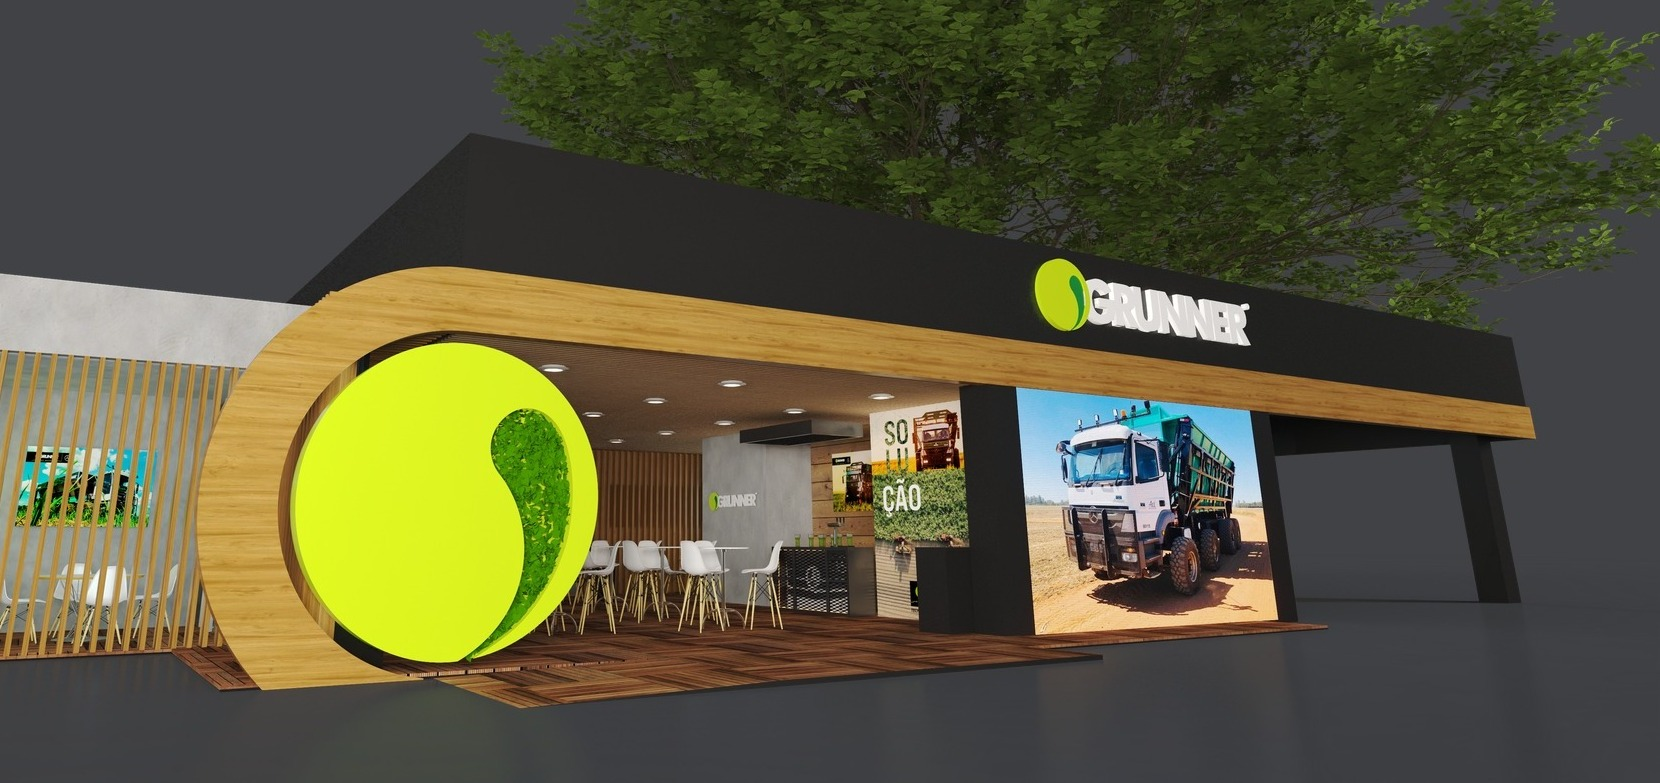
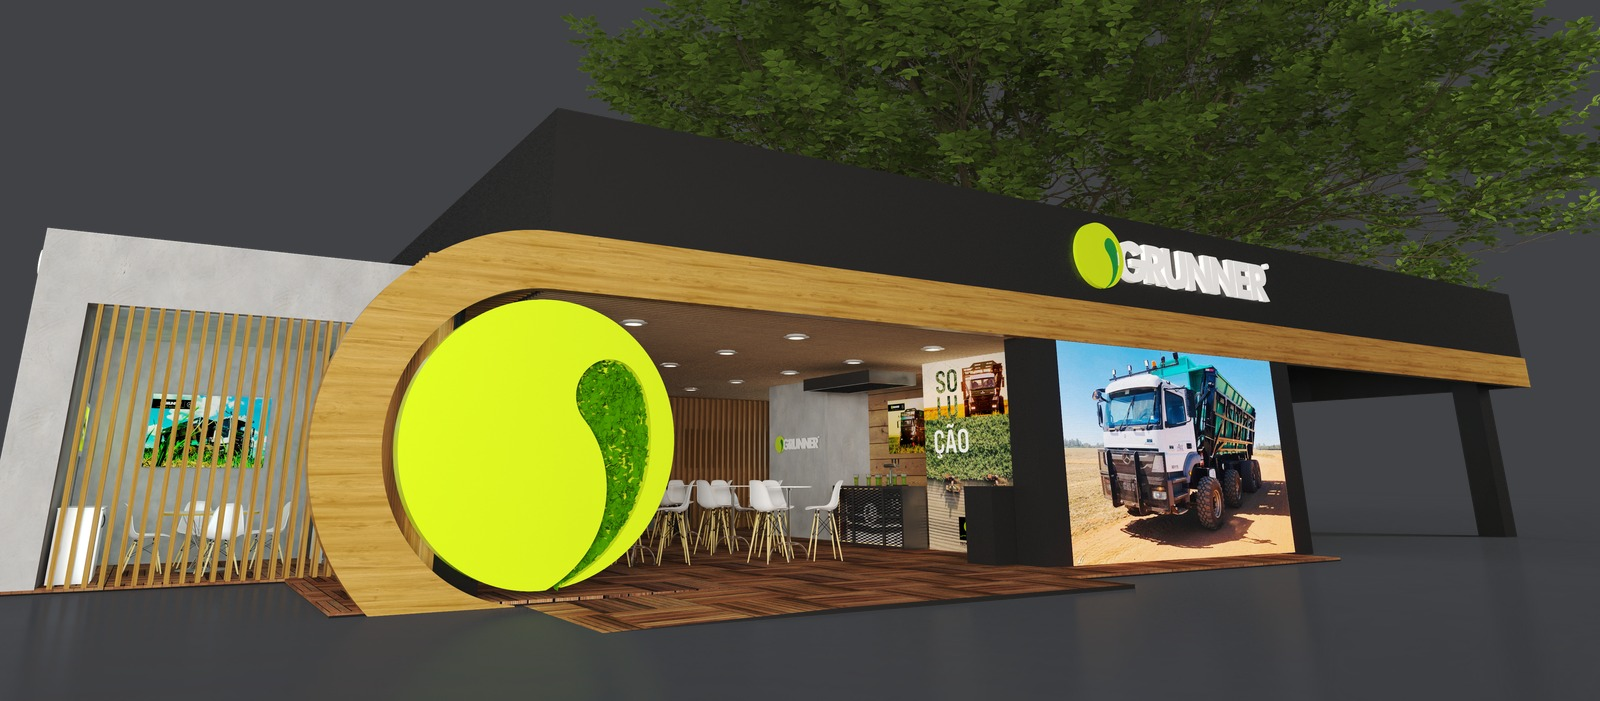
Render × real alinhado por perspectiva; promessa com render do caminhão sem fundo
Claude-Session: https://claude.ai/code/session_01CZkXmZGfokra5xxzUEBShR

diff --git a/index.html b/index.html
@@ -191,20 +191,20 @@ body.idle .chrome{opacity:0;pointer-events:none}
 <h2 style="position:absolute;left:92px;top:100px;width:700px;font-family:'Tusker', 'Arial Narrow', sans-serif;font-size:160px;line-height:1.0;color:#EEE9E1;font-weight:400;text-transform:uppercase">Do render</h2>
 <p style="position:absolute;left:580px;top:106px;width:700px;font-family:'Instrument Serif', Georgia, serif;font-size:150px;line-height:1.0;color:#9ED0F0;font-weight:400;letter-spacing:-2px;font-style:italic;letter-spacing:-4px">ao real.</p>
 <p style="position:absolute;left:1060px;top:236px;width:700px;font-family:'PPR Text', Arial, sans-serif;font-size:24px;line-height:1.4;color:#B4C3D3;letter-spacing:5px;text-transform:uppercase;text-align:right">Grunner · Agrishow 2024</p>
-<img id="rr-render" src="m/g24-render.jpg" alt="Render 3D do estande Grunner na Agrishow" style="position:absolute;left:160px;top:300px;width:1600px;height:755px;object-fit:cover">
-<img id="rr-real" src="m/g24-real.jpg" alt="Estande Grunner montado na Agrishow" style="position:absolute;left:160px;top:300px;width:1600px;height:755px;object-fit:cover;clip-path:inset(0 0 0 50%)">
-<div id="rr-line" style="position:absolute;left:959px;top:300px;width:2px;height:755px;background:#EEE9E1"></div>
-<p style="position:absolute;left:184px;top:324px;width:150px;font-family:'PPR Text', Arial, sans-serif;font-size:24px;line-height:1.4;color:#EEE9E1;letter-spacing:5px;background:#07111F;padding:8px 14px;width:auto">RENDER</p>
-<p style="position:absolute;left:1620px;top:324px;width:116px;font-family:'PPR Text', Arial, sans-serif;font-size:24px;line-height:1.4;color:#0B1C2D;letter-spacing:5px;background:#EEE9E1;padding:8px 14px;width:auto">REAL</p>
+<img id="rr-render" src="m/g24-render.jpg" alt="Render 3D do estande Grunner na Agrishow" style="position:absolute;left:160px;top:320px;width:1600px;height:701px;object-fit:cover">
+<img id="rr-real" src="m/g24-real.jpg" alt="Estande Grunner montado na Agrishow" style="position:absolute;left:160px;top:320px;width:1600px;height:701px;object-fit:cover;clip-path:inset(0 0 0 50%)">
+<div id="rr-line" style="position:absolute;left:959px;top:320px;width:2px;height:701px;background:#EEE9E1"></div>
+<p style="position:absolute;left:184px;top:344px;width:150px;font-family:'PPR Text', Arial, sans-serif;font-size:24px;line-height:1.4;color:#EEE9E1;letter-spacing:5px;background:#07111F;padding:8px 14px;width:auto">RENDER</p>
+<p style="position:absolute;left:1620px;top:344px;width:116px;font-family:'PPR Text', Arial, sans-serif;font-size:24px;line-height:1.4;color:#0B1C2D;letter-spacing:5px;background:#EEE9E1;padding:8px 14px;width:auto">REAL</p>
 <aside>O mesmo estande, no mesmo enquadramento: à esquerda o render aprovado, à direita o estande montado na Agrishow. No HTML, arraste o traço para comparar.</aside>
-<div id="rr-hit" style="position:absolute;left:160px;top:300px;width:1600px;height:755px;cursor:ew-resize;z-index:6;touch-action:none"><div id="rr-knob" style="position:absolute;left:50%;top:50%;width:72px;height:72px;margin:-36px 0 0 -36px;border-radius:50%;background:#EEE9E1;color:#07111F;display:grid;place-items:center;font:28px/1 sans-serif">‹ ›</div></div>
+<div id="rr-hit" style="position:absolute;left:160px;top:320px;width:1600px;height:701px;cursor:ew-resize;z-index:6;touch-action:none"><div id="rr-knob" style="position:absolute;left:50%;top:50%;width:72px;height:72px;margin:-36px 0 0 -36px;border-radius:50%;background:#EEE9E1;color:#07111F;display:grid;place-items:center;font:28px/1 sans-serif">‹ ›</div></div>
 <script>(function(){var h=document.getElementById("rr-hit"),r=document.getElementById("rr-real"),l=document.getElementById("rr-line"),k=document.getElementById("rr-knob");if(!h)return;function set(p){p=Math.max(0,Math.min(1,p));r.style.clipPath="inset(0 0 0 "+(p*100)+"%)";l.style.left=(160+1600*p-1)+"px";k.style.left=(p*100)+"%";}var d=false;function mv(e){var b=h.getBoundingClientRect();set((e.clientX-b.left)/b.width);}h.addEventListener("pointerdown",function(e){d=true;h.setPointerCapture(e.pointerId);mv(e);e.stopPropagation();});h.addEventListener("pointermove",function(e){if(d)mv(e);});h.addEventListener("pointerup",function(){d=false;});h.addEventListener("click",function(e){e.stopPropagation();});})();</script>
 </section>
 
 <section class="slide" id="promessa" style="background:#EEE9E1;color:#0B1C2D;font-family:'PPR Text', Arial, sans-serif">
 <div style="position:absolute;left:0px;top:0px;width:1920px;height:1080px;background:#EEE9E1"></div>
 <h2 style="position:absolute;left:92px;top:90px;width:759px;font-family:'Tusker', 'Arial Narrow', sans-serif;font-size:250px;line-height:1.0;color:#0B1C2D;font-weight:400;text-transform:uppercase">O que você</h2>
-<img src="m/grunner-render.jpg"  alt="Render 3D do estande Grunner na Agrishow" style="object-position:50% 45%;position:absolute;left:855px;top:85px;width:419px;height:236px;object-fit:cover">
+<img src="m/render-caminhao.png" alt="Render 3D do estande Grunner na Agrishow" style="position:absolute;left:805px;top:45px;width:519px;height:296px;object-fit:cover;object-fit:contain">
 <h2 style="position:absolute;left:1300px;top:90px;width:548px;font-family:'Tusker', 'Arial Narrow', sans-serif;font-size:250px;line-height:1.0;color:#0B1C2D;font-weight:400;text-transform:uppercase">aprova</h2>
 <p style="position:absolute;left:88px;top:421px;width:756px;font-family:'Instrument Serif', Georgia, serif;font-size:195px;line-height:1.0;color:#1F4FA8;font-weight:400;letter-spacing:-2px;font-style:italic">é o que vai</p>
 <img src="m/grunner-real-alinhado.jpg"  alt="Estande Grunner montado na Agrishow" style="object-position:50% 45%;position:absolute;left:855px;top:401px;width:419px;height:236px;object-fit:cover">
